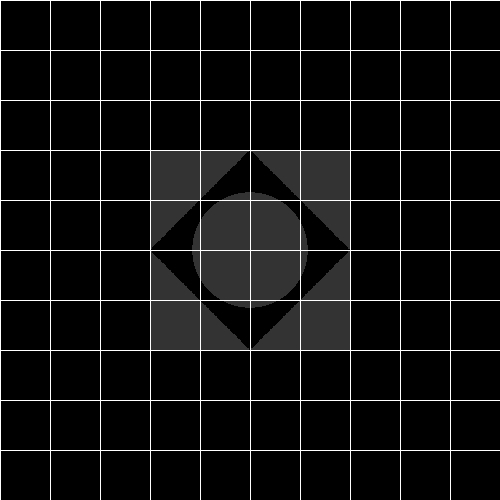
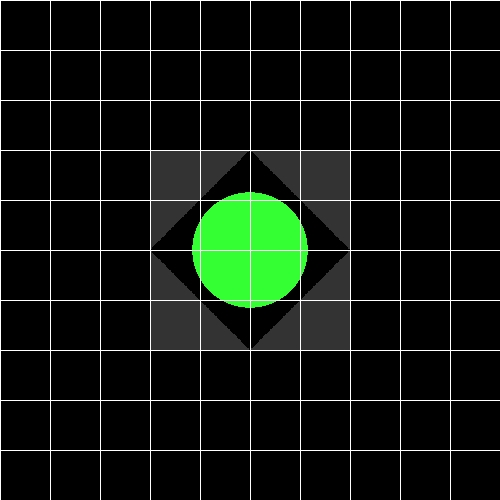
modif all geometries

Changed region(s): [[0.36, 0.36, 0.63, 0.63]]

diff --git a/src/geometries/Triangle.java b/src/geometries/Triangle.java
@@ -1,7 +1,9 @@
 package geometries;
 
 import primitives.*;
+
 import java.util.List;
+
 import static primitives.Util.isZero;
 
 /**
@@ -12,13 +14,14 @@ public class Triangle extends Polygon {
      * this is a basic triangle constructor that get 3 points and build a triangle from them
      * in did 3 points are already a triangle
      * this constructor uses the constructor of the parent class Polygon
+     *
      * @param emission the emission light of the triangle
-     * @param p1 1st point
-     * @param p2 2nd point
-     * @param p3 3rd point
+     * @param p1       1st point
+     * @param p2       2nd point
+     * @param p3       3rd point
      */
-    public Triangle(Color emission,Point3D p1, Point3D p2, Point3D p3) {
-        super(emission,p1, p2, p3);
+    public Triangle(Color emission, Point3D p1, Point3D p2, Point3D p3) {
+        super(emission, p1, p2, p3);
     }
 
     /**
@@ -26,12 +29,13 @@ public class Triangle extends Polygon {
      * in did 3 points are already a triangle
      * this constructor uses the constructor of the parent class Polygon
      * The Triangle will not have it's own color (initialized to BLACK)
+     *
      * @param p1 1st point
      * @param p2 2nd point
      * @param p3 3rd point
      */
     public Triangle(Point3D p1, Point3D p2, Point3D p3) {
-        this(Color.BLACK,p1, p2, p3);
+        this(Color.BLACK, p1, p2, p3);
     }
 
     @Override

diff --git a/src/geometries/Geometry.java b/src/geometries/Geometry.java
@@ -13,8 +13,7 @@ public abstract class Geometry implements Intersectable {
     /**
      * constructor
      *
-     * @param emission the emission
-     *                 light of the geometry
+     * @param emission the emission light of the geometry
      */
     public Geometry(Color emission) {
         this._emission = emission;
@@ -31,7 +30,7 @@ public abstract class Geometry implements Intersectable {
     /**
      * the getter for the emission light on the geometry
      *
-     * @return the emssion light
+     * @return the emission light
      */
     public Color getEmission() {
         return _emission;

diff --git a/src/renderer/Render.java b/src/renderer/Render.java
@@ -97,13 +97,13 @@ public class Render {
 
     /**
      * Calculate the color intensity in a point
-     * @param point the point for which the color is required
      * @return the color intensity
      */
-    private Color calcColor(GeoPoint point) {
-        return _scene.getAmbientLight().getIntensity();
+    private Color calcColor(GeoPoint intersection) {
+        Color color = _scene.getAmbientLight().getIntensity();
+        color = color.add(intersection._geometry.getEmission());
+        return color;
     }
-
 
     /**
      * Create the image file in jpeg format
